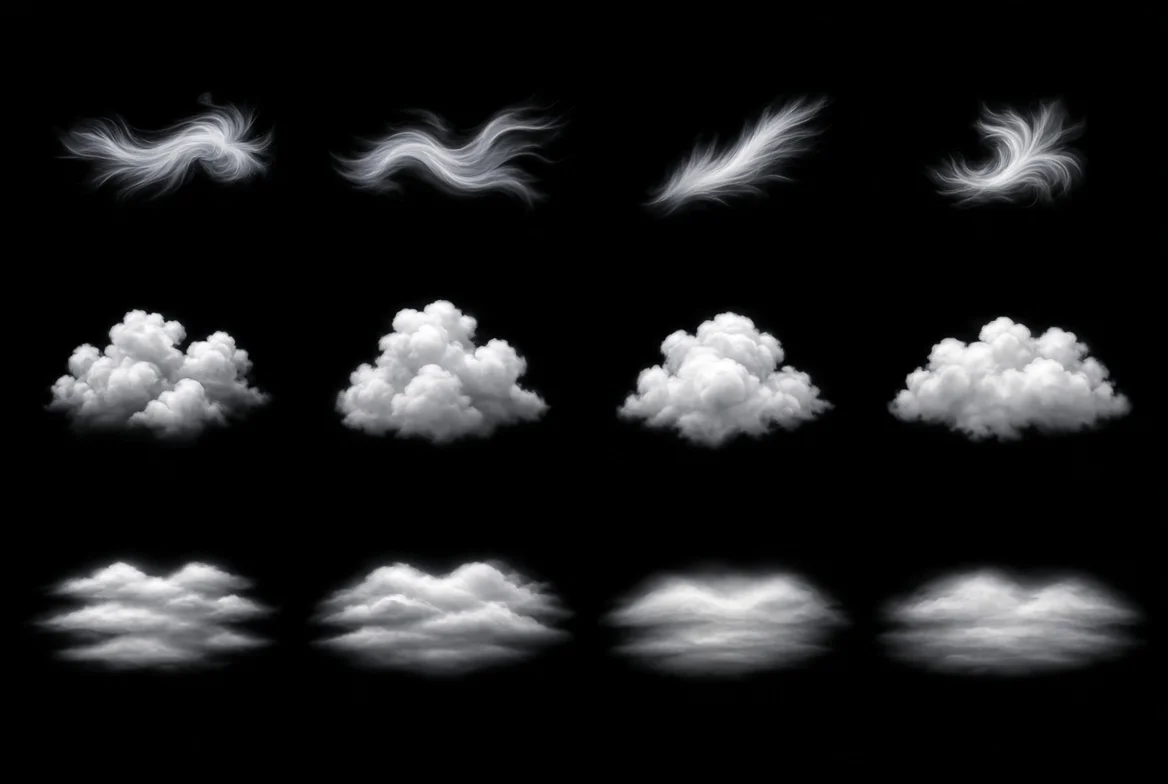
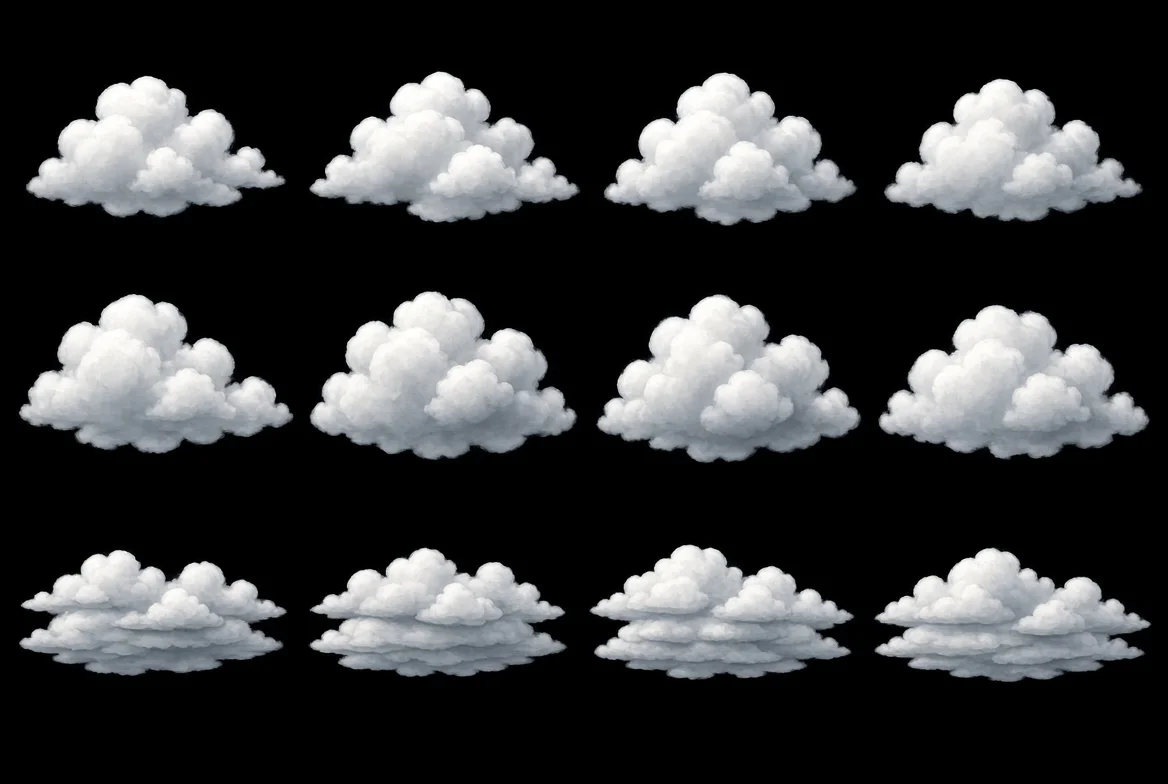
Add files via upload

diff --git a/app.js b/app.js
@@ -1280,18 +1280,18 @@ let cloudSpriteLoading = false;
 let cloudSpriteImage = null;
 const cloudTiles = {};
 const CLOUD_ATLAS = Object.freeze({
-  cirrus1: [10, 10, 270, 190],
-  cirrus2: [300, 10, 270, 190],
-  alto:    [590, 10, 270, 190],
-  cum1:    [10, 250, 270, 210],
-  cum2:    [300, 250, 270, 210],
-  cum3:    [590, 250, 270, 210],
-  cum4:    [880, 250, 270, 210],
-  bank1:   [10, 500, 270, 220],
-  bank2:   [300, 500, 270, 220],
-  bank3:   [590, 500, 270, 220],
-  storm1:  [880, 500, 270, 220],
-  storm2:  [10, 500, 270, 220]
+  cirrus1: [20, 15, 250, 230],
+  cirrus2: [310, 15, 250, 230],
+  alto:    [600, 15, 250, 230],
+  cum1:    [20, 275, 250, 230],
+  cum2:    [310, 275, 250, 230],
+  cum3:    [600, 275, 250, 230],
+  cum4:    [890, 275, 250, 230],
+  bank1:   [20, 530, 250, 230],
+  bank2:   [310, 530, 250, 230],
+  bank3:   [600, 530, 250, 230],
+  storm1:  [890, 530, 250, 230],
+  storm2:  [20, 530, 250, 230]
 });
 
 function cloudClamp(n) { return Math.max(0, Math.min(1, n)); }
@@ -1374,42 +1374,31 @@ function paintSkyClouds(force = false) {
   const back = cloudCanvas('back'), front = cloudCanvas('front');
   const b = back.g, f = front.g;
 
-  // Hohe, lockere Schleierwolken – sichtbar, aber mit viel offenem Himmel dazwischen.
-  cloudSprite(b, 'cirrus1', -50, 72, 420, 124, thin * .52);
-  cloudSprite(b, 'cirrus2', 332, 82, 470, 122, thin * .48);
-  cloudSprite(b, 'alto', -40, 118, 395, 96, cloudRise(.34, .70, renderCover) * .24);
-  cloudSprite(b, 'alto', 396, 108, 342, 86, cloudRise(.46, .82, renderCover) * .22);
+  // Einheitliche weiche Wolken – keine unterschiedlichen Muster mehr.
+  // Weniger Überlagerungen, ähnliche Größen, damit es ruhig und zusammenhängend wirkt.
+  const soft = Math.max(thin, puffs * .7, banks * .45);
 
-  // Mehr Masse erst bei wirklich dichter Bewölkung.
-  cloudSprite(b, 'bank1', -98, 108, 468, 164, banks * .56);
-  cloudSprite(b, 'bank2', 330, 114, 506, 170, banks * .58);
-  if (banks > .01) {
-    b.save();
-    const grad = b.createLinearGradient(0, 0, 0, CLOUD_TH);
-    const rgb = wet > .35 ? [88, 98, 119] : [192, 204, 222];
-    grad.addColorStop(0, `rgba(${rgb.join(',')},${(.13 * banks).toFixed(3)})`);
-    grad.addColorStop(.52, `rgba(${rgb.join(',')},${(.05 * banks).toFixed(3)})`);
-    grad.addColorStop(1, `rgba(${rgb.join(',')},0)`);
-    b.fillStyle = grad;
-    b.fillRect(0, 0, CLOUD_TW, CLOUD_TH);
-    b.restore();
-  }
+  // Hintergrund-Ebene: wenige, ähnlich große weiche Wolken
+  cloudSprite(b, 'cum1', -40, 90, 380, 160, soft * .38);
+  cloudSprite(b, 'cum2', 300, 100, 400, 155, soft * .36);
+  cloudSprite(b, 'cum3', 620, 88, 360, 150, soft * .32);
+  cloudSprite(b, 'bank1', -20, 120, 450, 170, banks * .42);
+  cloudSprite(b, 'bank2', 340, 125, 420, 165, banks * .40);
 
-  // Vordergrund: nur wenige lockere Wolken im oberen Bereich.
-  cloudSprite(f, 'cum1', -20, 156, 265, 152, (.20 + puffs * .42) * cloudRise(.10, .28, renderCover));
-  cloudSprite(f, 'cum3', 256, 168, 304, 148, puffs * .49);
-  cloudSprite(f, 'cum4', 548, 148, 232, 138, puffs * .40);
-  cloudSprite(f, 'cum2', 102, 178, 236, 118, puffs * .16);
-  cloudSprite(f, 'bank3', -30, 176, 520, 158, banks * (.30 + wet * .25));
-  cloudSprite(f, 'bank2', 392, 178, 402, 142, banks * (.24 + wet * .25));
+  // Vordergrund: ebenfalls nur weiche, gleichmäßige Wolken
+  cloudSprite(f, 'cum1', -30, 150, 320, 145, (.15 + puffs * .35) * .55);
+  cloudSprite(f, 'cum2', 220, 160, 340, 140, puffs * .42);
+  cloudSprite(f, 'cum3', 480, 148, 310, 135, puffs * .36);
+  cloudSprite(f, 'bank3', -10, 170, 480, 150, banks * .32);
+  cloudSprite(f, 'bank2', 360, 175, 400, 140, banks * .28);
 
-  // Regen- und Gewitterwolken dürfen dichter und dunkler werden.
+  // Bei Regen/Gewitter etwas dichter, aber weiterhin im gleichen Stil
   if (storm > .04) {
-    cloudSprite(b, 'storm1', -130, 82, 600, 252, storm * .60);
-    cloudSprite(b, 'storm2', 236, 84, 560, 240, storm * .62);
-    cloudSprite(f, 'storm2', -122, 156, 480, 188, storm * .40);
-    cloudSprite(f, 'bank3', 288, 162, 468, 162, storm * .42);
+    cloudSprite(b, 'bank1', -60, 95, 520, 180, storm * .45);
+    cloudSprite(b, 'bank2', 280, 100, 500, 175, storm * .42);
+    cloudSprite(f, 'bank3', -40, 155, 460, 155, storm * .32);
   }
+
   document.querySelectorAll('.weather-layer').forEach(layer => {
     const cvs = ensureCloudCanvases(layer);
     if (!cvs) return;

diff --git a/styles.css b/styles.css
@@ -846,7 +846,7 @@ html[data-phase="daemmerung"] .mic, html[data-phase="morgen"] .mic { box-shadow:
    Alte CSS-Wolken und flächige Ersatzschleier werden nicht mehr verwendet. */
 .sky-cloud {
   aspect-ratio: 1440 / 340;
-  filter: blur(1.1px) saturate(.95);
+  filter: blur(1.8px) saturate(.92);
   transform-origin: left center;
   -webkit-mask-image: linear-gradient(to bottom, #000 0%, #000 64%, rgba(0,0,0,.72) 84%, transparent 100%);
   mask-image: linear-gradient(to bottom, #000 0%, #000 64%, rgba(0,0,0,.72) 84%, transparent 100%);
@@ -857,15 +857,15 @@ html[data-phase="daemmerung"] .mic, html[data-phase="morgen"] .mic { box-shadow:
 }
 .sky-cloud.back { animation-duration: 260s; opacity: .70; }
 .sky-cloud.front { animation-duration: 180s; opacity: .82; }
-.weather-layer.night .sky-cloud.front, .weather-layer.night .sky-cloud.back { filter: blur(1.2px) brightness(.68) saturate(.85); }
-.weather-layer.dark-clouds .sky-cloud.front, .weather-layer.dark-clouds .sky-cloud.back { filter: blur(1.1px) brightness(.82) saturate(.7); }
-.weather-layer.night.dark-clouds .sky-cloud.front, .weather-layer.night.dark-clouds .sky-cloud.back { filter: blur(1.4px) brightness(.52) saturate(.6); }
+.weather-layer.night .sky-cloud.front, .weather-layer.night .sky-cloud.back { filter: blur(2.2px) brightness(.68) saturate(.85); }
+.weather-layer.dark-clouds .sky-cloud.front, .weather-layer.dark-clouds .sky-cloud.back { filter: blur(2.0px) brightness(.82) saturate(.7); }
+.weather-layer.night.dark-clouds .sky-cloud.front, .weather-layer.night.dark-clouds .sky-cloud.back { filter: blur(2.4px) brightness(.52) saturate(.6); }
 @media (prefers-reduced-motion: reduce) { .sky-cloud { animation: none !important; } }
 
 /* Die hintere Ebene ist ein Geschwister des Wetter-Layers. */
-.sky:has(> .weather-layer.night) > .sky-cloud.back { filter: blur(1.2px) brightness(.68) saturate(.85); }
-.sky:has(> .weather-layer.dark-clouds) > .sky-cloud.back { filter: blur(1.1px) brightness(.82) saturate(.7); }
-.sky:has(> .weather-layer.night.dark-clouds) > .sky-cloud.back { filter: blur(1.4px) brightness(.52) saturate(.6); }
+.sky:has(> .weather-layer.night) > .sky-cloud.back { filter: blur(2.2px) brightness(.68) saturate(.85); }
+.sky:has(> .weather-layer.dark-clouds) > .sky-cloud.back { filter: blur(2.0px) brightness(.82) saturate(.7); }
+.sky:has(> .weather-layer.night.dark-clouds) > .sky-cloud.back { filter: blur(2.4px) brightness(.52) saturate(.6); }
 /* Himmelsausschnitt: am Sperrbildschirm haben Wolken mehr Raum als in der kompakten Startseite. */
 .lock-screen .sky-cloud { top: 9%; aspect-ratio: 1440 / 430; }
 .hero .sky-cloud { top: 16%; aspect-ratio: 1440 / 360; }
